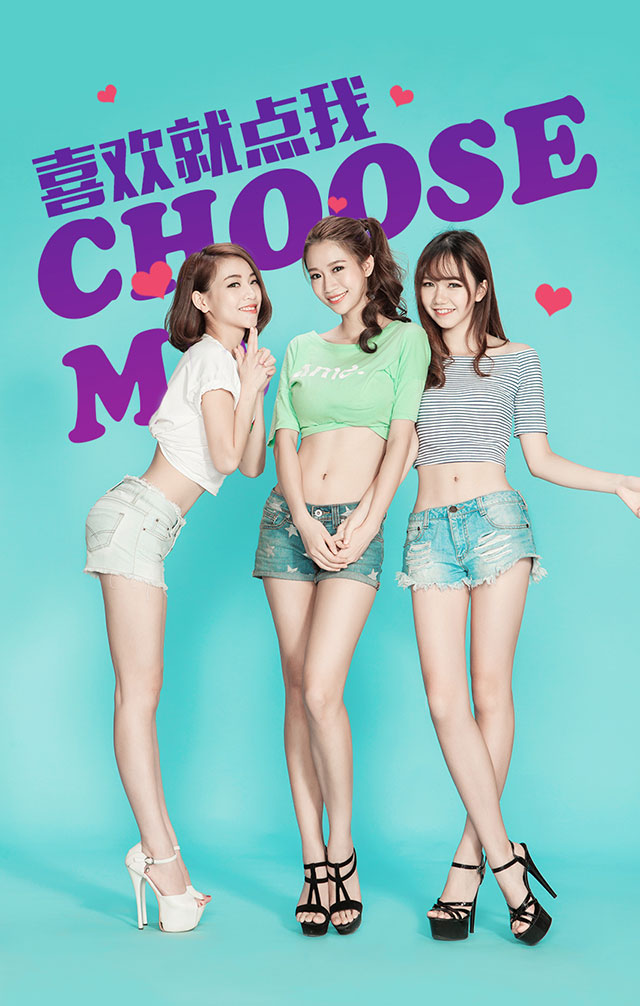
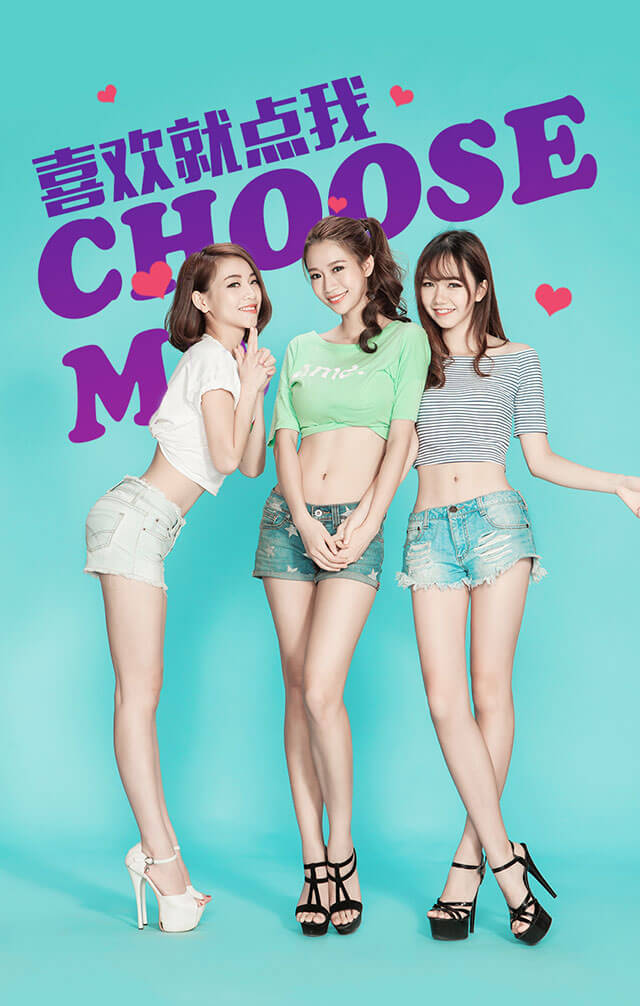
约练活动测试

diff --git a/demoon.html b/demoon.html
@@ -19,7 +19,7 @@
     .main{
       width: 100%;
       height: 100%;
-      background:url(images/bg.jpg) no-repeat;
+      background:url(images/start2.jpg) no-repeat;
       -webkit-background-size: cover;
       background-size: cover;
       position: relative;
@@ -44,7 +44,7 @@
     canvas.width = windowWidth;
     canvas.height = windowHeight;
 
-    image.src = 'images/start2.jpg';
+    image.src = 'images/start.jpg';
     image.onload = function  (e) {
       context.drawImage(image,0,0,image.width,image.height,0,0,windowWidth,windowHeight);
       canvas.addEventListener('touchstart', function(event) {
